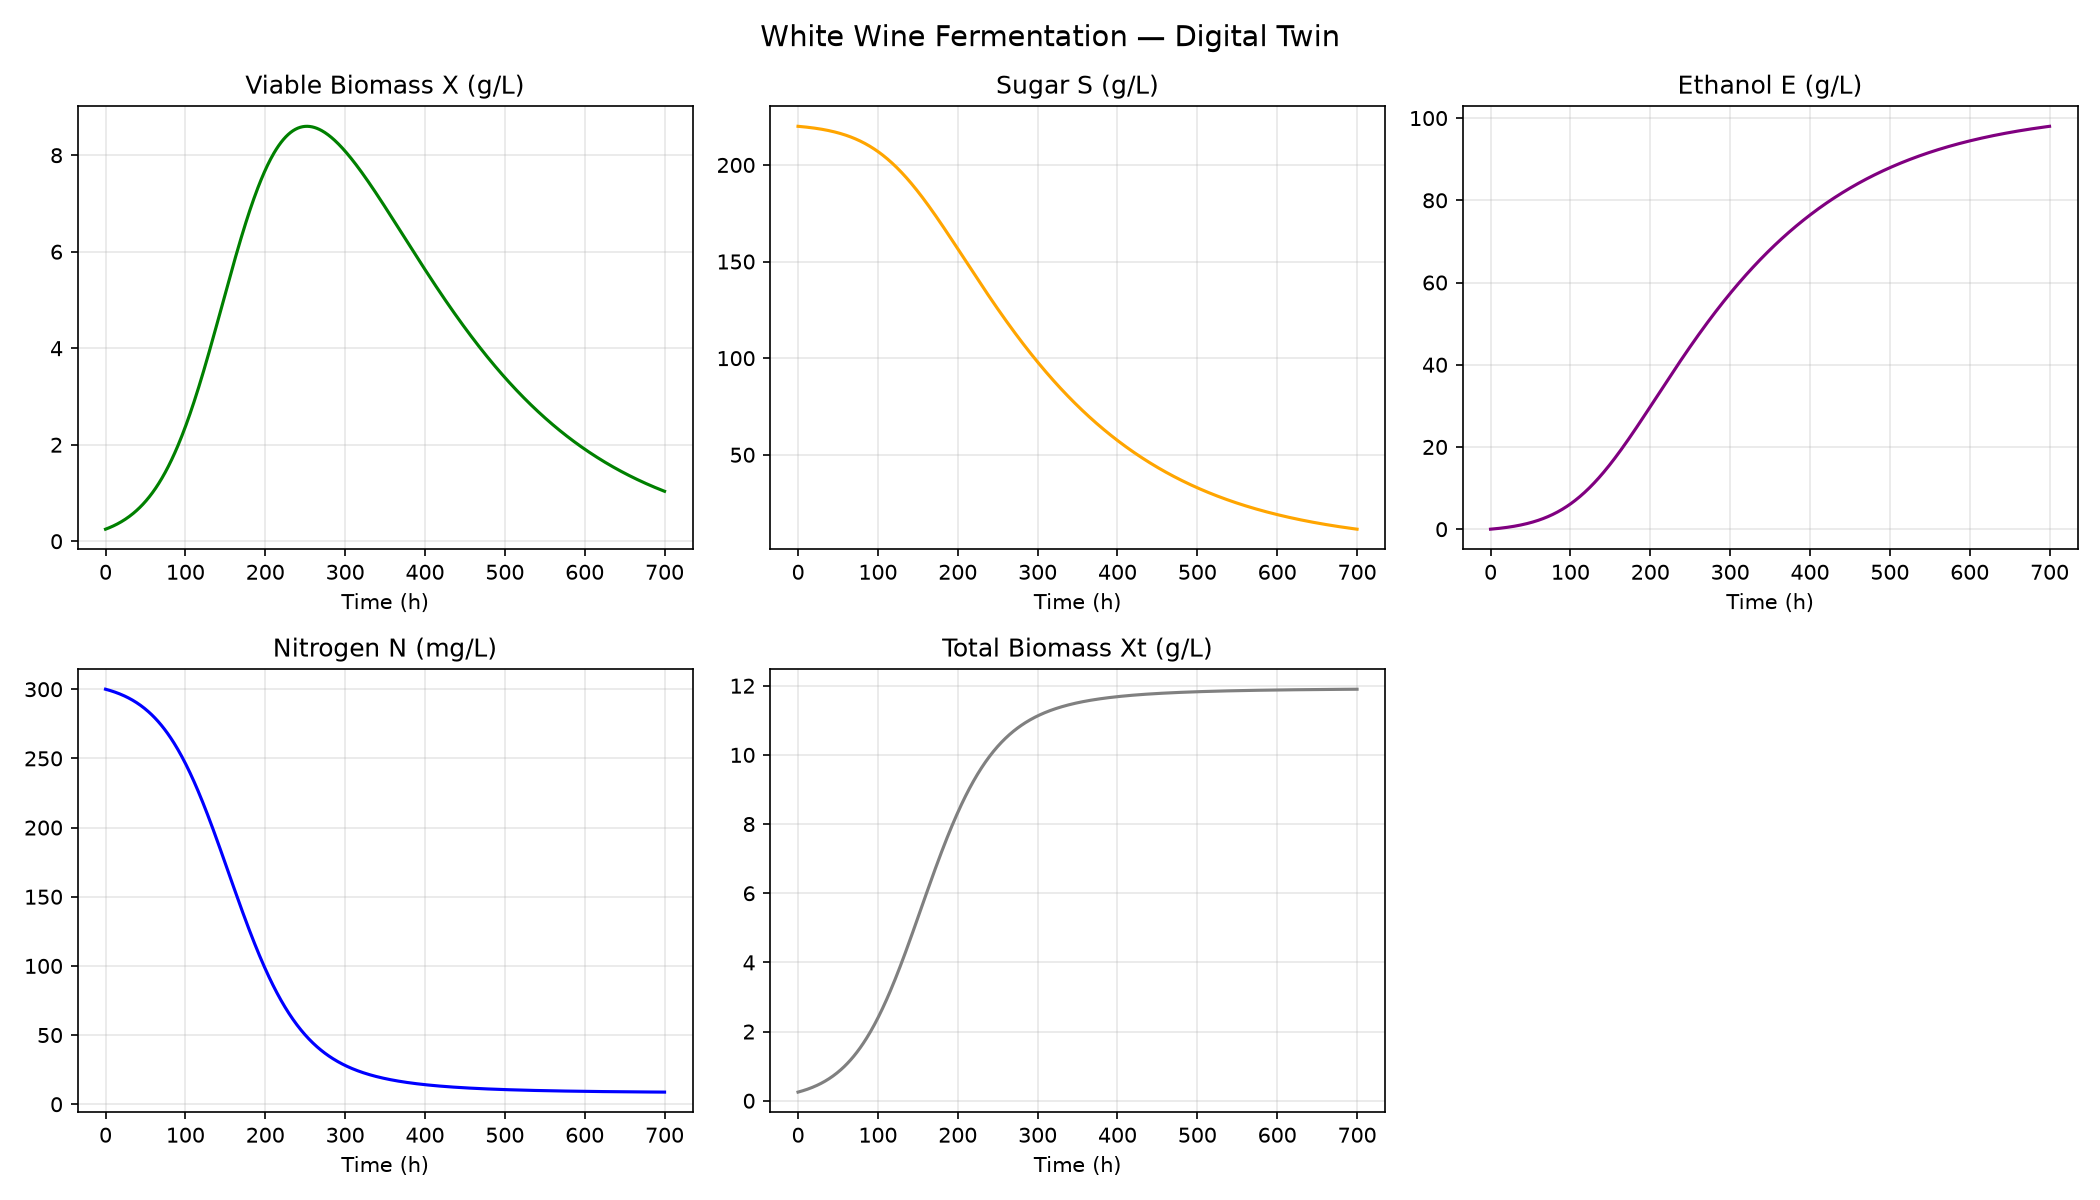
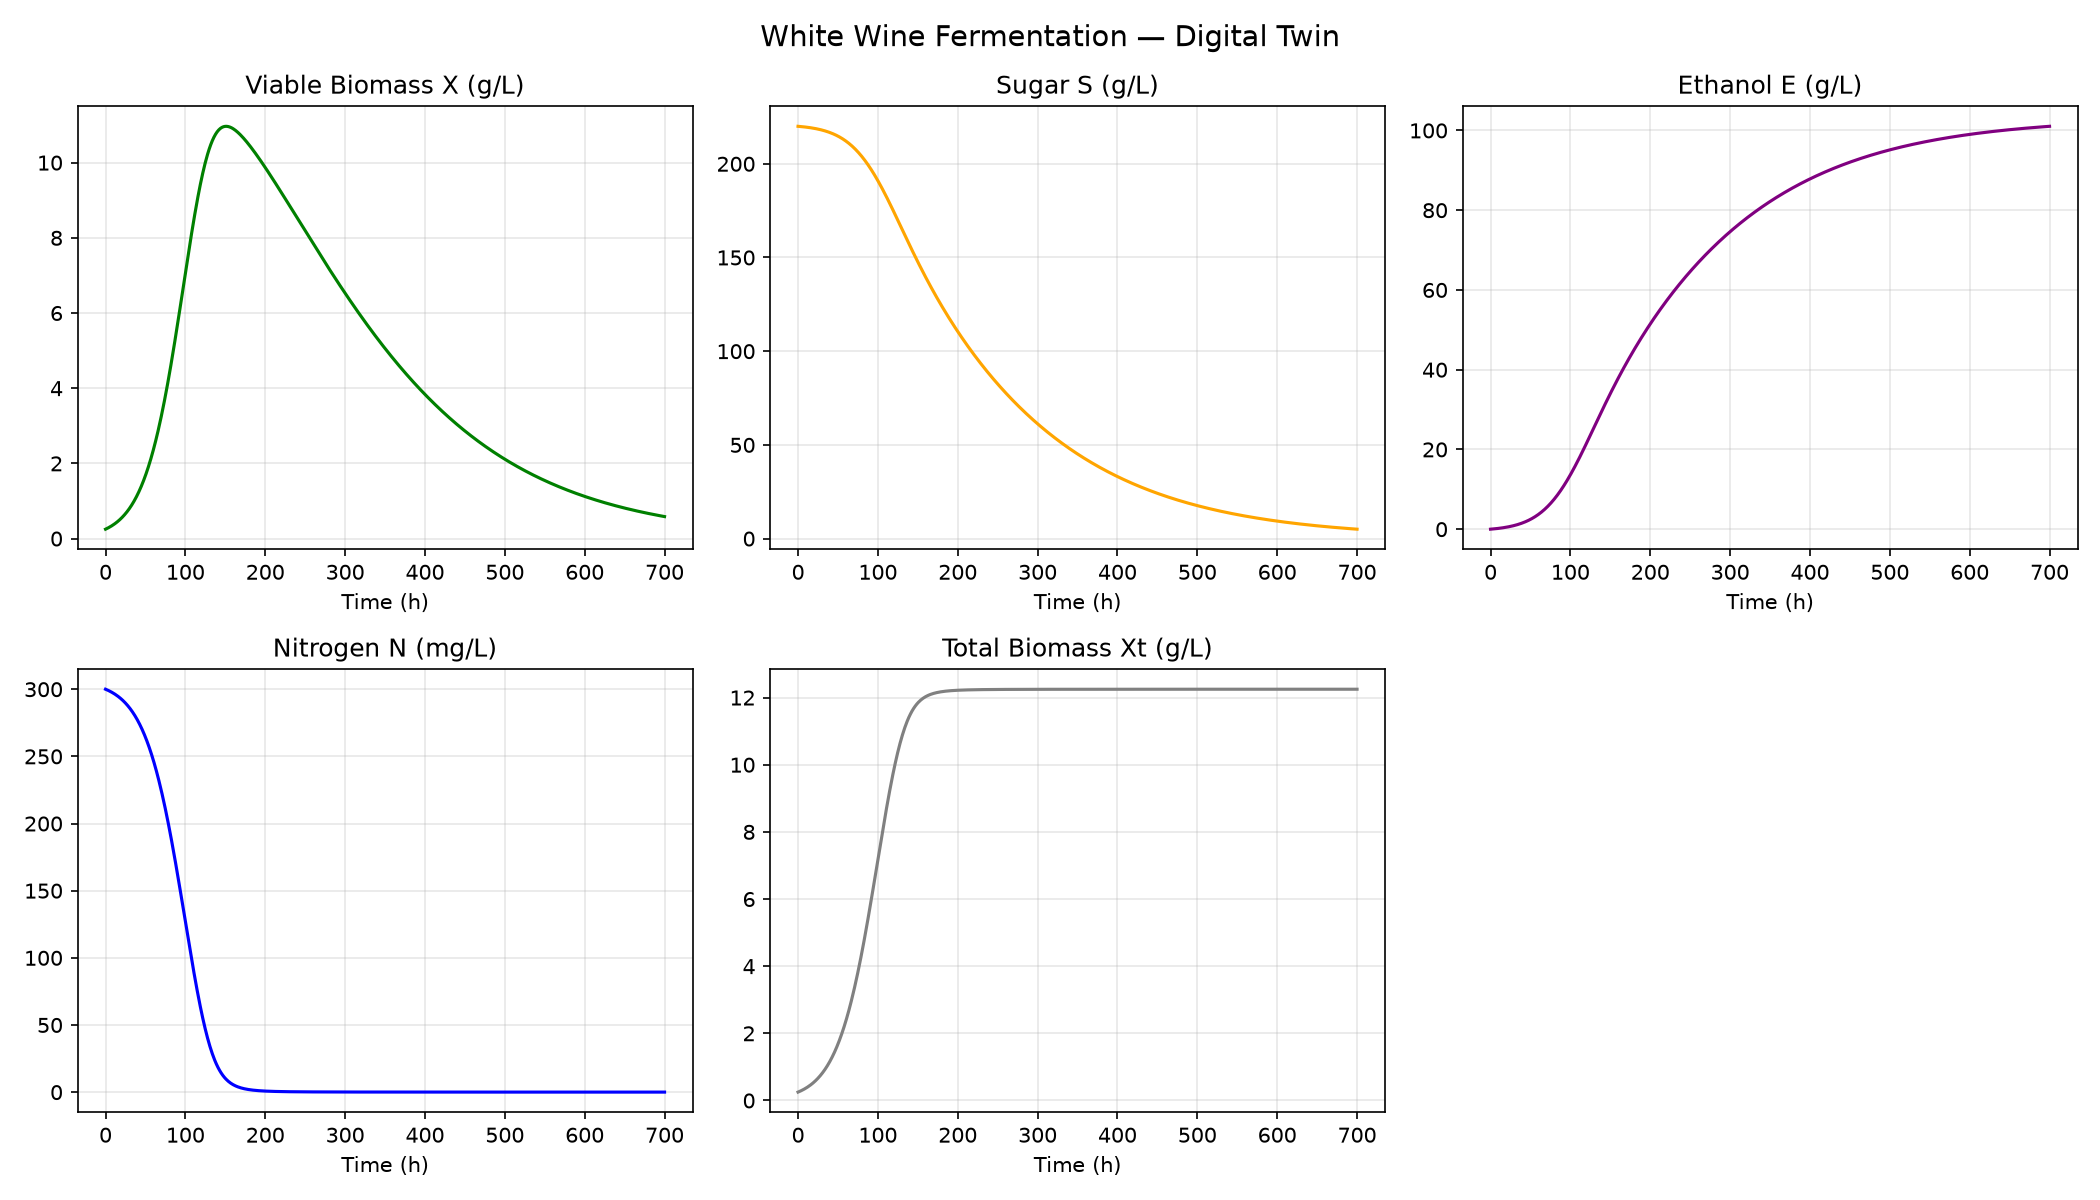
pytests for spatial.py

diff --git a/tests/test_spatial.py b/tests/test_spatial.py
@@ -1,0 +1,53 @@
+# Phase 2 spatial heat model.
+import numpy as np
+import copy
+from src.process.spatial import (
+    params,
+    run_diffusion_test,
+    run_with_fermentation,
+    get_dSdt_profile,
+)
+from src.process.simulator import params as ferm_params
+
+# reminder  X, Xt, S, N, E = sol.y   , in the results the rows are N  layers and the columns time
+
+
+def test_diffusion_runs():
+    sol = run_diffusion_test(params)
+    assert sol.success
+    assert sol.y.shape[0] == params["N"]
+
+
+def test_dirichlet_bc_holds():
+    # we test that the base node stays pinned at T_coolant the whole time
+    sol = run_diffusion_test(params)
+    base = sol.y[0, :]  # the N=0 all the time
+    assert np.allclose(
+        base, params["T_coolant"], atol=1e-6
+    )  # will return True if they are close enough
+
+
+def test_diffusion_relaxes():
+    # if we do not have a source the gradient must shrink over time
+    sol = run_diffusion_test(params)
+    spread_start = sol.y[:, 0].max() - sol.y[:, 0].min()
+    spread_end = sol.y[:, -1].max() - sol.y[:, -1].min()
+    assert spread_end < spread_start  # this shows us that the gradient has relaxed
+
+
+def test_fermentation_creates_gradient():
+    p = copy.deepcopy(params)
+    sol, _ = run_with_fermentation(
+        p, ferm_params
+    )  # we only need sol and not the timings
+    top = sol.y[-1, :]
+    base = sol.y[0, :]
+    peak_grad = (top - base).max()  # the maximun gradient ever formed
+    assert peak_grad > 1.0  # At least 1°C difference
+
+
+def test_dSdt_is_positive():
+    # sugar-substrate consumption magnitude is always positive
+    t_eval = np.linspace(0, 300, 100)
+    dSdt = get_dSdt_profile(t_eval, ferm_params)
+    assert np.all(dSdt >= 0)

diff --git a/src/process/spatial.py b/src/process/spatial.py
@@ -17,7 +17,7 @@ from src.process.simulator import run_simulation, params as ferm_params
 
 params = {
     "H": 2.2,  # m, tank height (Bogard 2020)
-    "N": 20,  # layers — start here; dz = H/(N-1) ≈ 0.116 m
+    "N": 40,  # layers — start here; dz = H/(N-1) ≈ 0.116 m
     "alpha": 1.9e-5,  # m²/s, effective (convective) (we make it bigger than pure diffusion to account for convective mixing)
     "rho": 1080.0,  # kg/m³, fermenting must (Nelson & Boulton),density of the fermenting liquid
     "Cp": 3800.0,  # J/kg/K, approximated  ,specific heat capacity of the fermenting liquid
@@ -40,7 +40,8 @@ params["alpha_h"] = (
 # Converts the heat PDE  ∂T/∂t = α·∂²T/∂z²  into N coupled ODEs
 
 
-def heat_rhs(t, T, params):
+def heat_rhs(t, T, params):  # It calculates how the temperature at each of our
+    # 20 layers changes in the next microsecond due to pure diffusion (no fermentation heat).
 
     N = params["N"]
     dz = params["dz"]
@@ -245,7 +246,7 @@ if __name__ == "__main__":
     axes[2].set_title("T(z, t) heatmap")
     fig.colorbar(im, ax=axes[2], label="Temperature (°C)")
 
-    fig.suptitle("Phase 2 — CFD-lite: 1D heat transport in fermentation tank")
+    fig.suptitle("Phase 2 — CFD-lite: 1D heat transport in fermentation tank_with_N_40")
     fig.tight_layout()
     fig.savefig("results/figures/phase2_full.png", dpi=150)
     plt.show()

diff --git a/src/process/simulator.py b/src/process/simulator.py
@@ -19,7 +19,7 @@ STATE_NAMES = ["X", "Xt", "S", "N", "E"]
 # Parameters (white wine preset, literature values) ─────
 params = {
     # Growth
-    "mu_max": 0.031,  # — ~14°C (Nelson & Boulton, 2024)
+    "mu_max": 0.05,  # — ~14°C (Nelson & Boulton, 2024)
     "KN": 50.0,  # half-saturation for nitrogen (mg/L) — Monod KS
     "kE": 0.035,  # ethanol inhibition constant — Coleman et al.
     "kd_prime": 0.000065,  # death rate (1/h) — viability decay

diff --git a/README.md b/README.md
@@ -24,4 +24,42 @@ dE/dt  = β·X + MNT·X                           # ethanol production
 
 We studied  also the stuck fermentation that is caused by low YAN <80 mg N/L (it might also cause sluggish fermentation,very slow fermantation).Stuck fermentation might also be caused by high temperature ->high kd
 
+For phase 2 :
+Boulton (1979) showed that wine fermentors can be modeled as well-mixed heat balances  an assumption valid for small white wine tanks. 
+Miller & Block (2020) demonstrated that large-scale fermentations violate this assumption, exhibiting measurable temperature gradients. 
+Coleman et al. (2007) established that these gradients directly alter local Monod kinetics, with kd rising sharply above 25°C. This module implements a 1D discretization of the Boulton heat equation coupled to the Coleman kinetic model, serving as a computationally lightweight alternative to full CFD (Miller 2019a).
+
+
+
+
+#we have gradient because of the size of the tank not because of the cap (because we have white wine we dont have cap)
+
+real tanks are not well-mixed:
+Fermentation is exothermic — it generates heat
+That heat is generated wherever yeast is eating sugar, which is mostly in the upper and middle liquid
+The cooling jacket sits at the base and walls — pulling heat out from below
+The top of the tank is open air — effectively insulated
+
+
+
+#: the liquid develops a vertical temperature gradient. The top is warmer than the bottom.
+
+
+lets say we use a Jacketed cylindrical white wine fermentor (we discretized it into N horizontal layers for CFD-lite)
+
+Convection happens inside the liquid wine. During fermentation, yeast creates heat. The hot wine in the middle becomes lighter and floats to the top. When it hits the cold steel wall, it cools down, gets heavier, and sinks to the bottom. This creates a continuous 'mixing loop' called a convection current.
+
+#Limitation: The 1D model captures conductive heat transport only. 
+
+Molecular thermal diffusivity α = 1.33×10⁻⁷ m²/s (derived from  Bogard et al. 2020, Table 1) gives a conduction timescale 
+τ = H²/α ≈ 10,000 h , approximately 40× longer than fermentation  duration. An effective diffusivity α_eff ≈ 1.33×10⁻⁴ m²/s is 
+therefore used to approximate buoyancy-driven natural convection,  following the Nusselt-number scaling implicit in Bogard et al. 2020. 
+
+
+At 14°C the simulated fermentation is slow (~500–700 h) and retains
+modest residual sugar, consistent with Coleman et al. (2007), whose
+measured 15°C fermentation (their Fig. 2a) similarly remained above
+70 g/L sugar after 600 h. Cold white-wine fermentations are inherently
+sluggish. μ_max was set to 0.05 /h following Coleman's reported value
+near 11–15°C (their Fig. 3a).
 